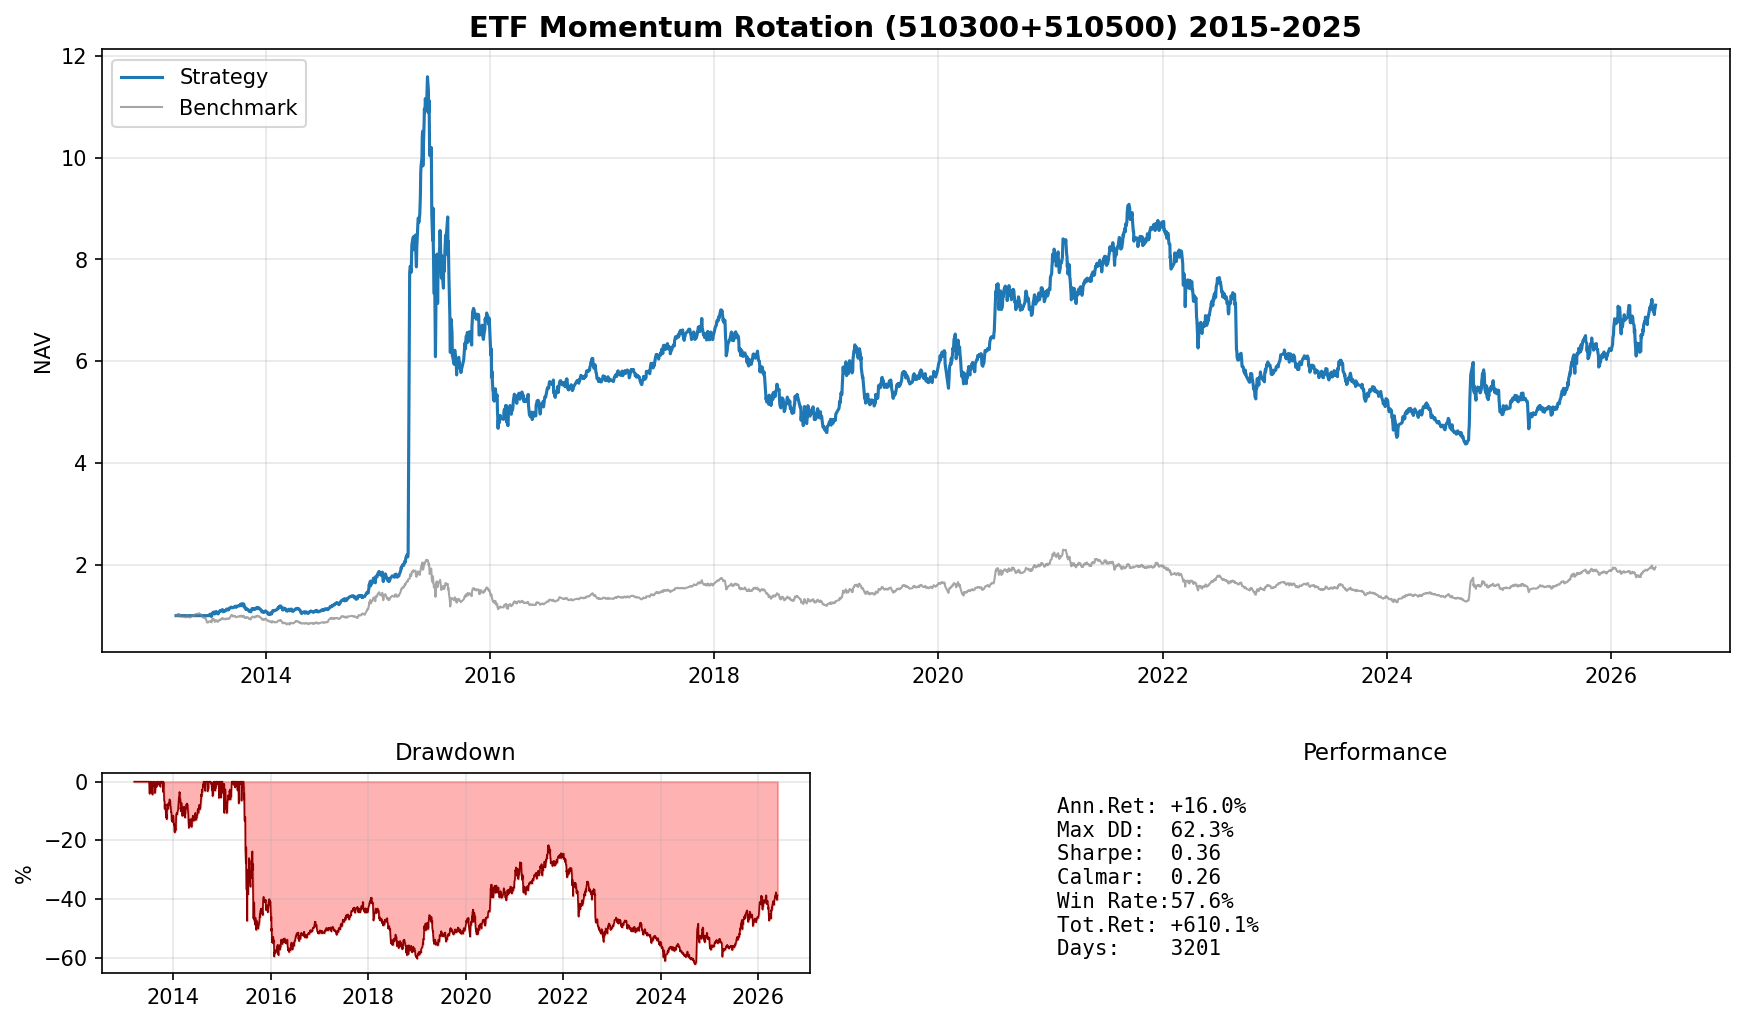
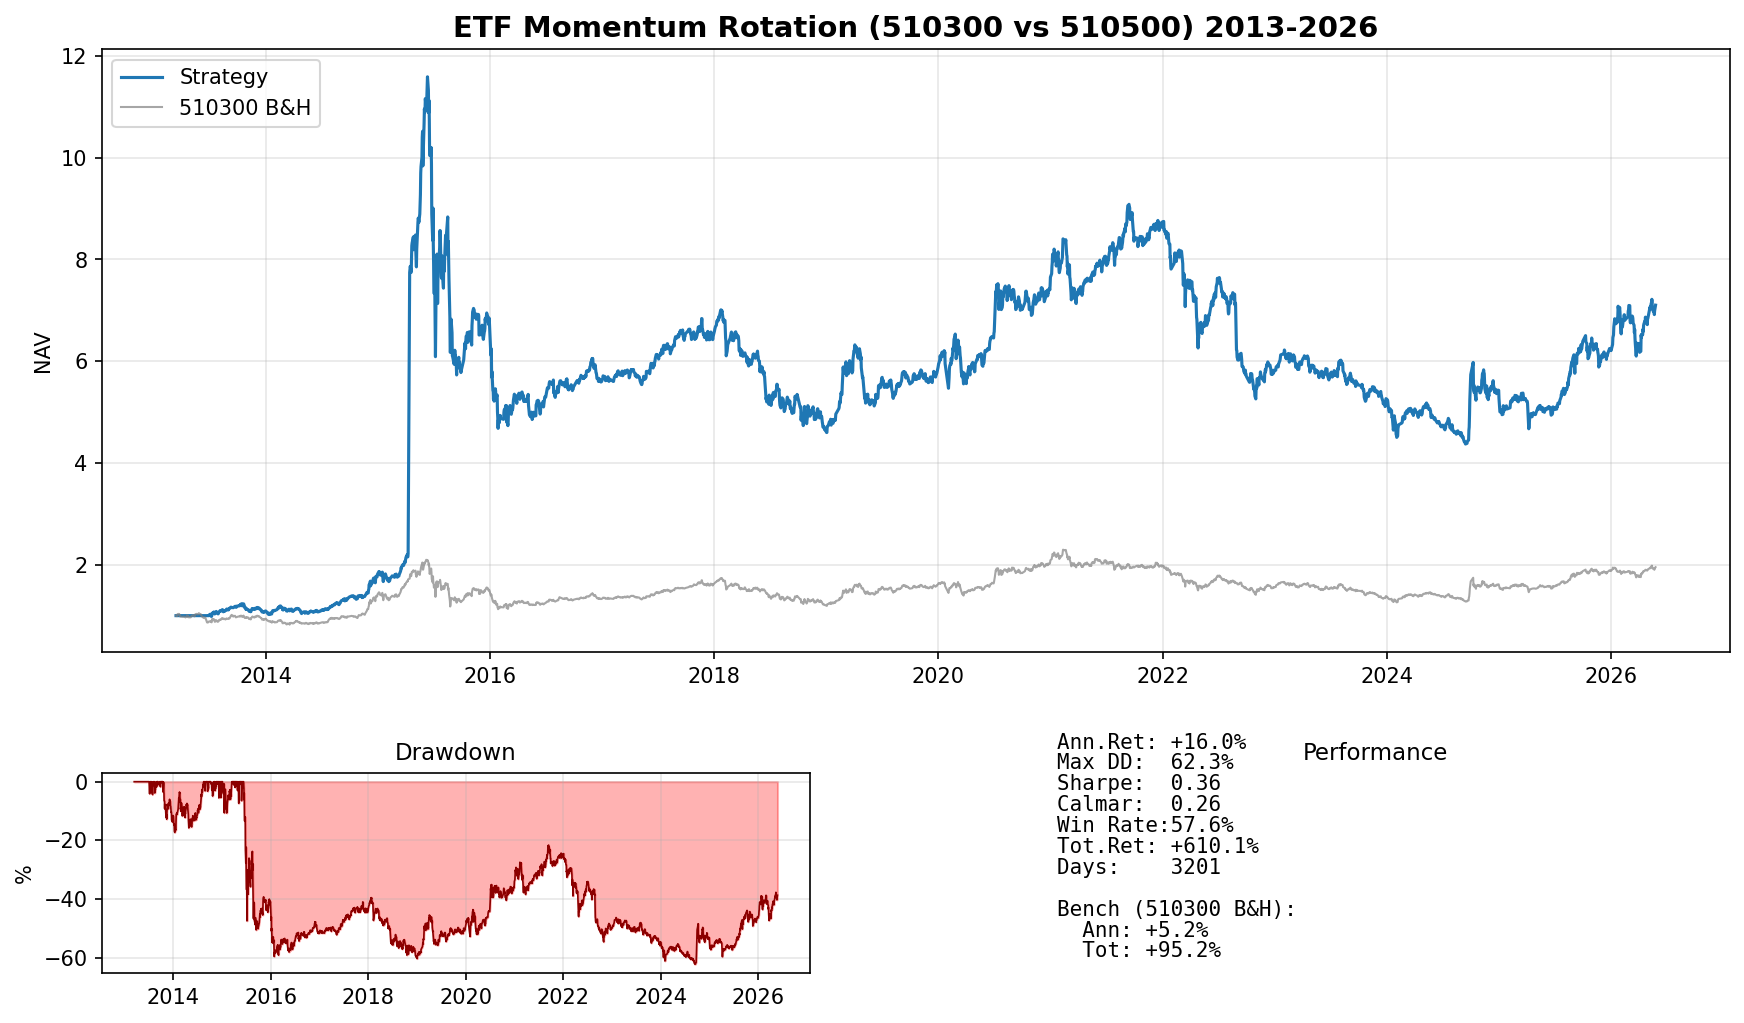
feat: 可视化增加benchmark标签+bench指标显示(510300 B&H)

Changed region(s): [[0.2477, 0.0, 0.805, 0.0606], [0.5883, 0.697, 0.7431, 0.9394], [0.0929, 0.0909, 0.1858, 0.1212]]

diff --git a/src/quant/monitor/viz.py b/src/quant/monitor/viz.py
@@ -13,6 +13,7 @@ from pathlib import Path
 def plot_nav(
     nav: pd.Series,
     benchmark: pd.Series | None = None,
+    benchmark_label: str = "Benchmark",
     title: str = "Strategy NAV",
     save_path: str | None = None,
 ):
@@ -24,7 +25,7 @@ def plot_nav(
     if benchmark is not None:
         bench_norm = benchmark / benchmark.iloc[0]
         ax.plot(
-            bench_norm.index, bench_norm.values, label="Benchmark", linewidth=1, color="gray", alpha=0.7
+            bench_norm.index, bench_norm.values, label=benchmark_label, linewidth=1, color="gray", alpha=0.7
         )
 
     ax.set_title(title, fontsize=14, fontweight="bold")
@@ -92,6 +93,7 @@ def plot_report(
     nav: pd.Series,
     metrics: dict,
     benchmark: pd.Series | None = None,
+    benchmark_label: str = "Benchmark",
     title: str = "Backtest Report",
     save_path: str | None = None,
 ):
@@ -106,7 +108,7 @@ def plot_report(
     if benchmark is not None:
         bench_norm = benchmark.reindex(nav.index).ffill()
         bench_norm = bench_norm / bench_norm.iloc[0]
-        ax1.plot(bench_norm.index, bench_norm.values, label="Benchmark", linewidth=1, color="gray", alpha=0.7)
+        ax1.plot(bench_norm.index, bench_norm.values, label=benchmark_label, linewidth=1, color="gray", alpha=0.7)
     ax1.set_title(title, fontsize=14, fontweight="bold")
     ax1.legend(loc="upper left")
     ax1.grid(True, alpha=0.3)
@@ -134,8 +136,13 @@ def plot_report(
         f"Tot.Ret: {metrics.get('total_return', 0)*100:+.1f}%",
         f"Days:    {metrics.get('n_days', 0)}",
     ]
+    if metrics.get("bench_annual") is not None:
+        metric_lines.append("")
+        metric_lines.append(f"Bench ({benchmark_label}):")
+        metric_lines.append(f"  Ann: {metrics['bench_annual']*100:+.1f}%")
+        metric_lines.append(f"  Tot: {metrics.get('bench_total', 0)*100:+.1f}%")
     y_pos = np.arange(len(metric_lines))[::-1] * 0.13
-    ax3.set_ylim(-0.1, 1.0)
+    ax3.set_ylim(-0.1, 1.0 + max(0, len(metric_lines)-8) * 0.05)
     ax3.set_xlim(0, 1)
     for y, line in zip(y_pos, metric_lines):
         ax3.text(0.05, y, line, fontsize=10, family="monospace")
